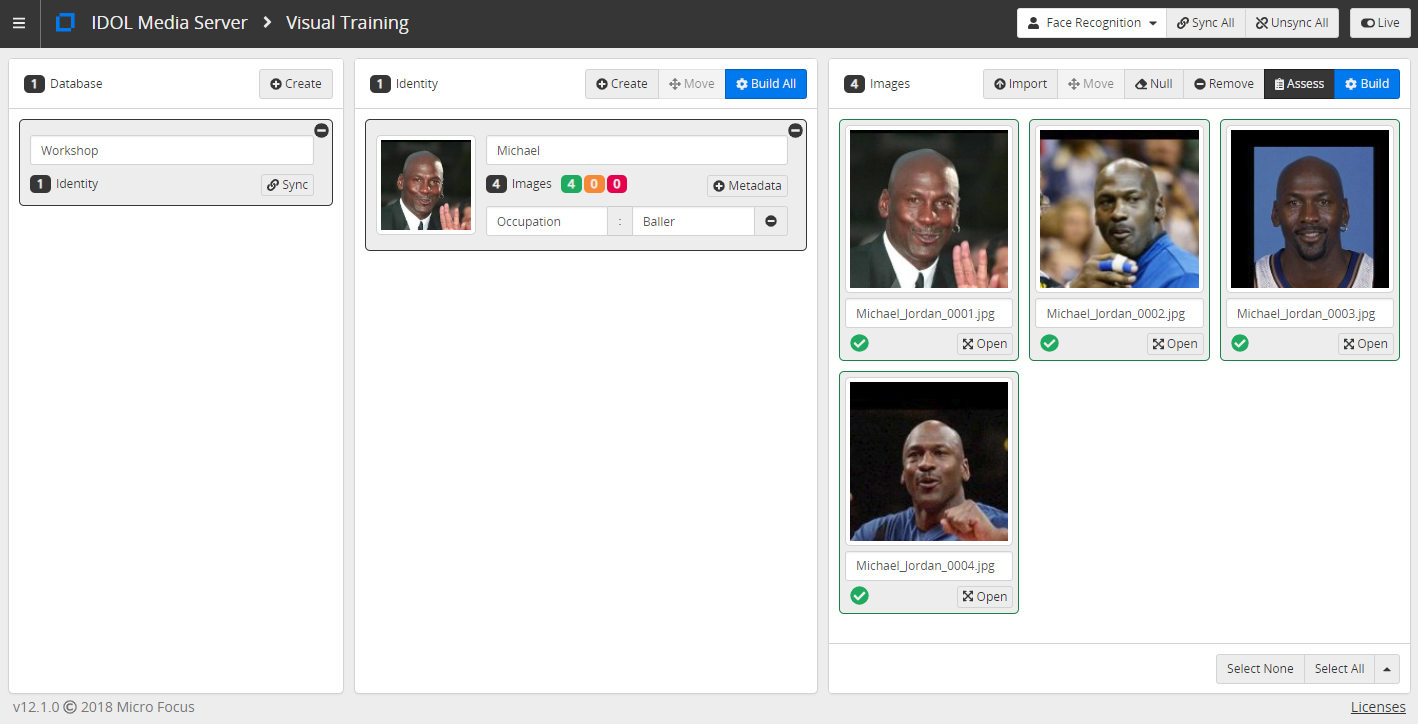
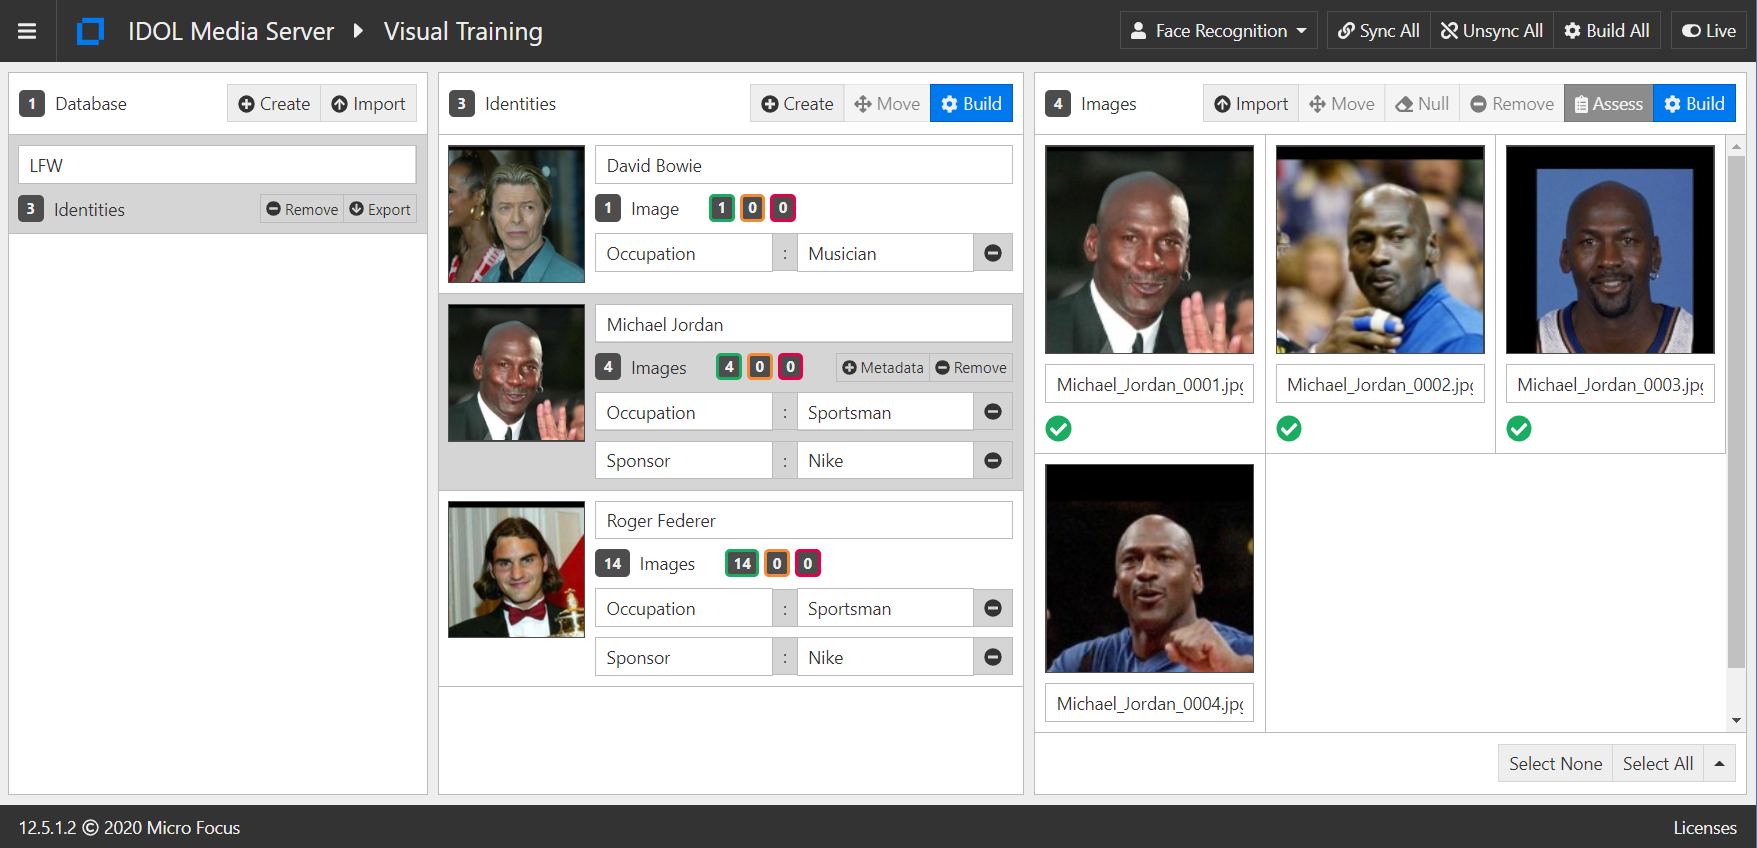
Example script to train select faces from LFW dataset.

Changed region(s): [[0.0, 0.0, 1.0, 1.0], [0.3413, 0.7597, 0.3724, 0.7901]]

diff --git a/tutorials/introduction/training/train-faces.py b/tutorials/introduction/training/train-faces.py
@@ -1,0 +1,76 @@
+"""
+python train-faces.py
+"""
+import os, urllib.parse, urllib.request
+
+
+#  v a r i a b l e s
+api = 'http://localhost:14000/action='
+database_name = 'LFW'
+null_image_data = False
+
+person_list = [
+  {'folder': 'David_Bowie', 'identifier': 'David Bowie', 'metadata': { 'Occupation': 'Musician' }},
+  {'folder': 'Michael_Jordan', 'identifier': 'Michael Jordan', 'metadata': { 'Occupation': 'Sportsman', 'Sponsor': 'Nike' }},
+  {'folder': 'Roger_Federer', 'identifier': 'Roger Federer', 'metadata': { 'Occupation': 'Sportsman', 'Sponsor': 'Nike' }}
+]
+
+
+#  f u n c t i o n s
+def listMetadata(person):
+  metadata = []
+  for meta_key in person['metadata'].keys():
+    metadata.append(
+      f'{meta_key}:{person["metadata"][meta_key]}'
+    )
+
+  return ','.join(metadata)
+
+def listImagesFilePaths(person):
+  image_list = []
+  image_folder = os.path.join(os.getcwd(), person['folder'])
+  
+  for image_file in os.listdir(image_folder):
+    image_list.append(
+      urllib.parse.quote(os.path.join(image_folder, image_file))
+    )
+
+  return ','.join(image_list)
+
+def listImagesFileNames(person):
+  image_list = []
+  image_folder = os.path.join(os.getcwd(), person['folder'])
+  
+  for image_file in os.listdir(image_folder):
+    image_list.append(
+      urllib.parse.quote(image_file)
+    )
+
+  return ','.join(image_list)
+
+
+#  m a i n   e x e c u t i o n
+if __name__ == '__main__':
+  x = urllib.request.urlopen(
+    f'{api}RemoveFaceDatabase&database={database_name}'
+  )
+  print(x.read())
+
+  x = urllib.request.urlopen(
+    f'{api}CreateFaceDatabase&database={database_name}'
+  )
+  print(x.read())
+
+  for person in person_list:
+    # print(listMetadata(person))
+    # print(listImagesFileNames(person))
+    # print(listImagesFilePaths(person))
+
+    x = urllib.request.urlopen(
+      f'{api}TrainFace&database={database_name}&nullimagedata={null_image_data}&identifier={person["identifier"]}&metadata={listMetadata(person)}&imagelabels={listImagesFileNames(person)}&imagepath={listImagesFilePaths(person)}'
+    )
+    print(x.read())
+
+  print(
+    f'{api}ListFaces&database={database_name}'
+  )

diff --git a/tutorials/introduction/PART_III.md b/tutorials/introduction/PART_III.md
@@ -9,6 +9,7 @@ We will:
 <!-- TOC depthFrom:2 -->
 
 - [Face training](#face-training)
+  - [Train stock faces](#train-stock-faces)
   - [Train your own face](#train-your-own-face)
   - [Assessing faces for training](#assessing-faces-for-training)
 - [Face matching](#face-matching)
@@ -36,23 +37,34 @@ Media Server can be trained to recognize faces, as well as specific objects, cla
 
 Media Server training can be performed through its web API, detailed in the [reference guide](https://www.microfocus.com/documentation/idol/IDOL_12_5/MediaServer_12.5_Documentation/Help/index.html#Actions/Training/_TrainingActions.htm).  For smaller projects, demos and testing, you may find it easier to use the [`gui`](http://localhost:14000/a=gui) web interface.
 
-![face-training](./figs/face-training.png)
+### Train stock faces
 
-> These trained faces of Michael Jordan were sourced from [Labeled Faces in the Wild: A Database for Studying Face Recognition in Unconstrained Environment](http://vis-www.cs.umass.edu/lfw/lfw.pdf).
+A commonly used set of stock faces is available from [Labeled Faces in the Wild: A Database for Studying Face Recognition in Unconstrained Environment](http://vis-www.cs.umass.edu/lfw/lfw.pdf).
+
+The images of three people from this database are included in these tutorial materials: David Bowie, Michael Jordan and Roger Federer.
+
+Use the included `train-faces.py` script to add them to Media Server:
+
+```bsh
+python train-faces.py
+```
+
+![face-training](./figs/face-training.png)
 
 ### Train your own face
 
-Open the [`gui`](http://localhost:14000/a=gui) (tested in Google Chrome) then follow these steps to train your identity:
+Open the Media Server [`gui`](http://localhost:14000/a=gui) (tested in Google Chrome) then follow these steps to train your identity:
 
+1. select the "Visual Training" page
 1. at the top right, note that *Face Recognition* is the selected analytic by default
-2. in the left column, click `Add` to add a new *database* (a collection of identities)
+1. in the left column, click `Add` to add a new *database* (a collection of identities)
     - rename the database to `Workshop`
-3. in the center column, click `Add` to add a new *identity*
+1. in the center column, click `Add` to add a new *identity*
     - give your identity a name
     - (optionally) add key-value metadata
-4. in the right column, click `Add` to import images
+1. in the right column, click `Add` to import images
     - Navigate to `output/faces2b` to select some of cropped images we just created
-5. click `Build` to train your identity
+1. click `Build` to train your identity
 
 The training status for each image is indicated at its bottom left: green for trained, yellow untrained and red for failed.
 
